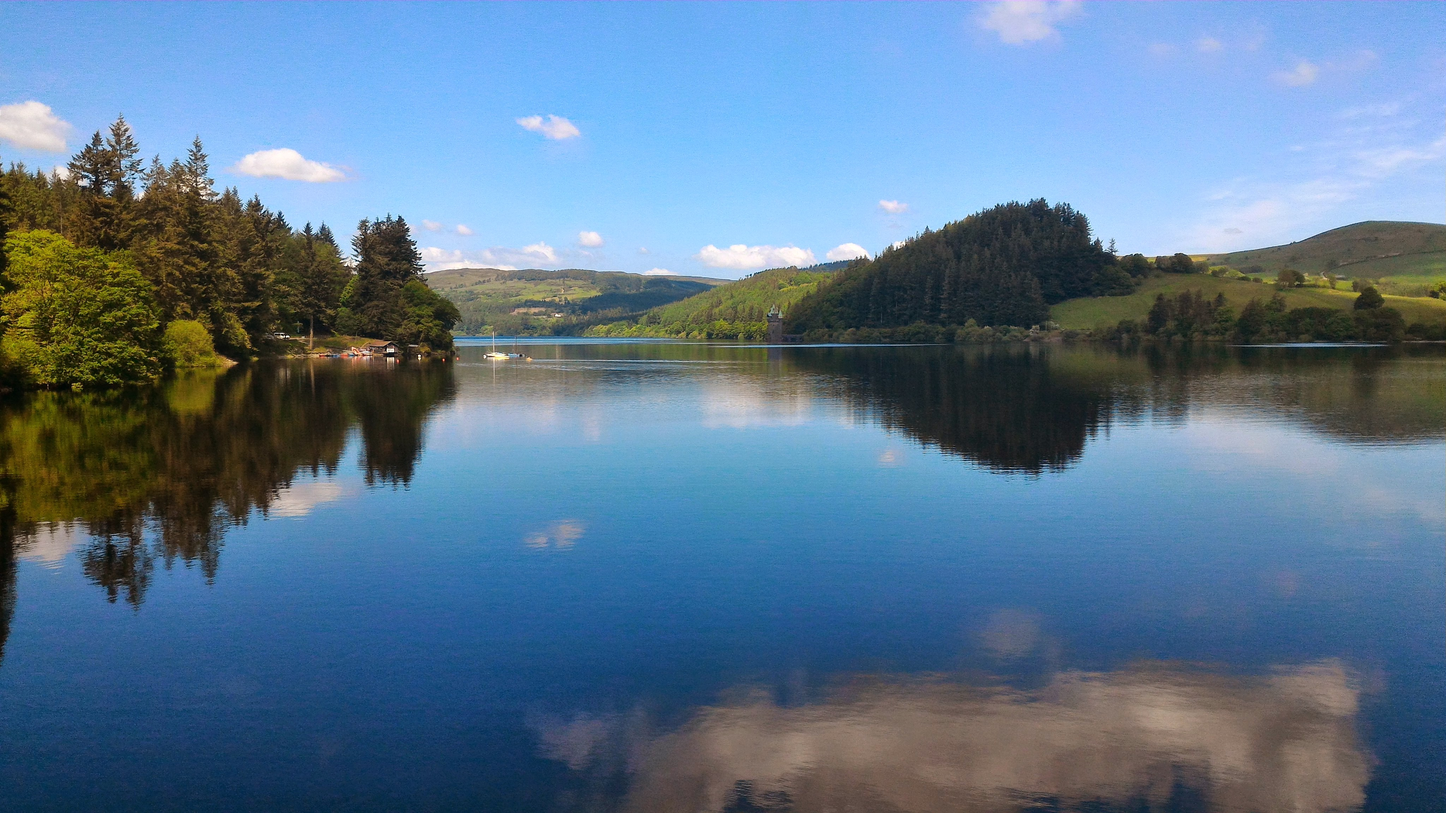
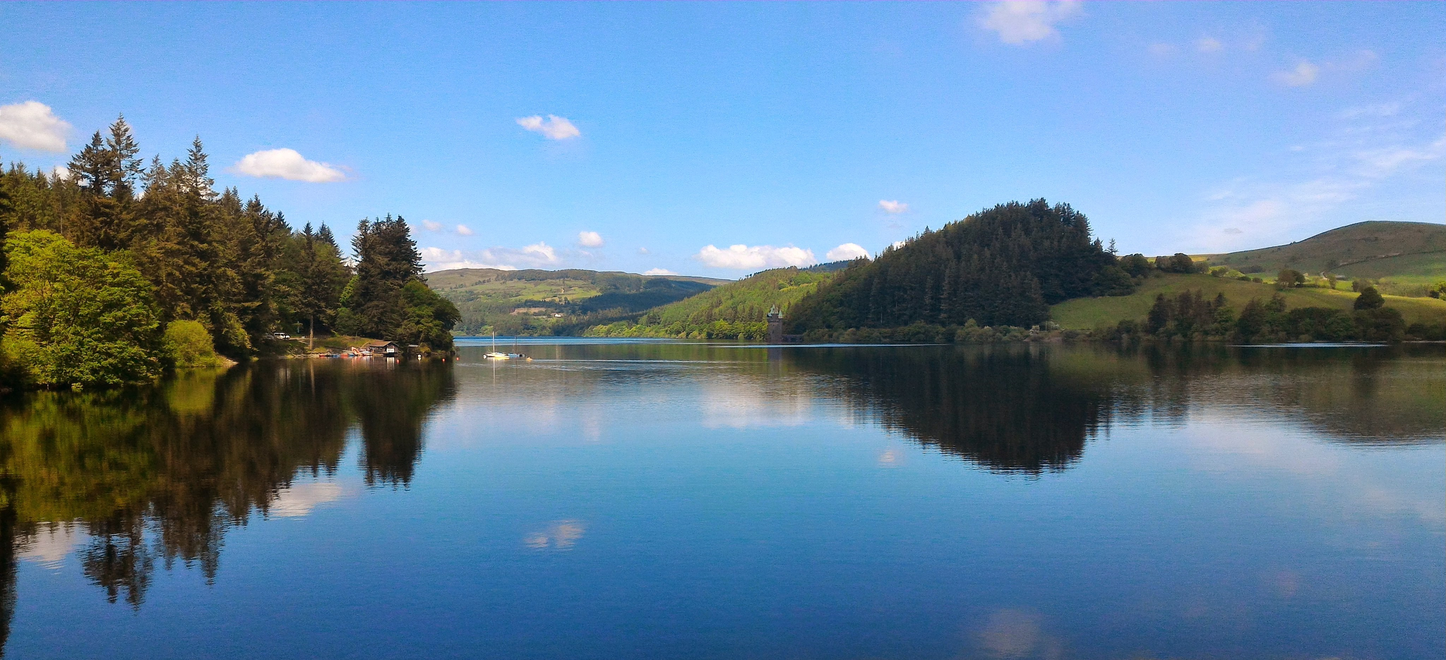
about page complete

diff --git a/style.css b/style.css
@@ -359,18 +359,93 @@ nav li:hover {
 }
 
 /***********************About**************************/
-/***********************Contact**************************/
-.back-img {
+.page-about .back-img {
     position: absolute;
     width: 100%;
     left: 0;
-    background: linear-gradient(rgba(0, 0, 0, 0.4), rgba(0, 0, 0, 0.4)), url(img/coding.jpg);
+    background: linear-gradient(rgba(0, 0, 0, 0.2), rgba(0, 0, 0, 0.2)), url(img/lakevyrnwy.jpg);
     background-repeat: no-repeat;
     background-size: cover;
     background-position: center;
 }
 
-.back-img h1 {
+.page-about .back-img h1 {
+    color: white;
+    margin: 0;
+    padding: 90px 0;
+}
+
+.page-about .inner-container {
+    margin-top: 300px;
+    letter-spacing: 1px;
+}
+
+.large-text {
+    font-size: 2.75em;
+    font-weight: bold;
+    letter-spacing: 5px;
+}
+
+.head-line {
+    font-weight: bold;
+    letter-spacing: 0;
+}
+
+.about-format {
+    display: grid;
+    grid-template-columns: repeat(5, 1fr);
+}
+
+.about-format p {
+    grid-column-start: 2;
+    grid-column-end: 4;
+    text-align: left;
+    align-self: center;
+}
+
+.about-format ul {
+    text-align: right;
+    font-size: 1.25em;
+    font-weight: bold;
+    list-style-type: none;
+    align-self: center;
+    transition: 1s;
+}
+
+.about-format h4 {
+    text-align: right;
+    font-size: 1.5em;
+}
+
+.about-format h4:after {
+    content: '\2b9f';
+}
+
+.about-format li {
+    padding-bottom: 15px;
+}
+
+.page-about a {
+    text-decoration: none;
+    font-weight: bold;
+}
+
+.page-about a:hover {
+    text-decoration: underline;
+}
+
+/***********************Contact**************************/
+.page-contact .back-img {
+    position: absolute;
+    width: 100%;
+    left: 0;
+    background: linear-gradient(rgba(0, 0, 0, 0.2), rgba(0, 0, 0, 0.2)), url(img/coding.jpg);
+    background-repeat: no-repeat;
+    background-size: cover;
+    background-position: center;
+}
+
+.page-contact .back-img h1 {
     color: white;
     margin: 0;
     padding: 90px 0;
@@ -378,6 +453,7 @@ nav li:hover {
 
 .page-contact .inner-container {
     margin-top: 300px;
+    letter-spacing: 1px;
 }
 
 /***********************Footer**************************/
@@ -387,7 +463,7 @@ footer {
     justify-content: center;
     align-items: center;
     color: rgb(185, 185, 185);
-    background-color: rgb(32, 32, 42);
+    background-color: rgb(32, 32, 40);
 }
 
 .social-footer img {
@@ -427,7 +503,23 @@ footer {
 }
 
 @media only screen and (max-width: 992px) {
+
+    .about-format {
+        grid-template-columns: 1fr;
+    }
     
+    .about-format p {
+        grid-column-start: 1;
+        text-align: center;
+    }
+
+    .about-format h4 {
+        text-align: center;
+    }
+
+    .about-format ul {
+        text-align: center;
+    }
     
 }
 

diff --git a/index.html b/index.html
@@ -125,10 +125,41 @@
 			</div>
 			<!-------------------About-------------------->
 			<div id="about" class="page-about page">
-				<h1 class="animated fadeInDown">About</h1>
-				<div class="underline animated fadeInUp"></div>
+				<div class="back-img animated fadeIn">
+					<h1 class="animated fadeInDown">About</h1>
+				</div>
 				<div class="inner-container">
-					
+					<h3 class="large-text">My name is Ryan.</h3>
+					<p class="head-line">
+						I’m an aspiring Developer based in Cardiff with a passion for Web and Mobile Developemnt. 
+						Eager to create modern, unique, and intuitive systems.
+					</p>
+					<div class="underline animated fadeInUp"></div>
+					<div class="about-format">
+						<p>
+							I graduated from the University of South Wales with a Bachelor of Science in Information Systems achieving an upper second class honours. 
+							As a child I always enjoyed making things and taking things apart while also gravitating towards technology and computers as I got older. 
+							And ever since saving up the money to build my own PC I’ve always wanted to do something with computers. 
+							But it wasn’t until taking Computing class at A-Level that I realised what I enjoyed was programming and using code to create things. 
+							Since then I have learnt a lot through multiple university projects and investing my spare time into bettering my knowledge of different technologies. 
+							Below are some of the languages and technologies that I have gained a really strong understanding of over the last year or two:
+						</p>
+						<div>
+							<h4>Skills</h4>
+							<ul>
+								<li>HTML/HTML5</li>
+								<li>CSS/CSS3</li>
+								<li>JavaScript</li>
+								<li>jQuery</li>
+								<li>Wordpress</li>
+								<li>Bootstrap</li>
+								<li>PHP</li>
+								<li>SQL</li>
+								<li>MySQL</li>
+							</ul>
+						</div>
+					</div>
+					<p>If you would like to know more about skills and experience, please don't hesitate to take a look at my <a href="https://drive.google.com/file/d/1ErlOsPYLk_FTetjSk1D_5DwAkavsusy4/view" target="_blank">CV</a>.</p>
 				</div>
 			</div>
 			<!-------------------Contact-------------------->
